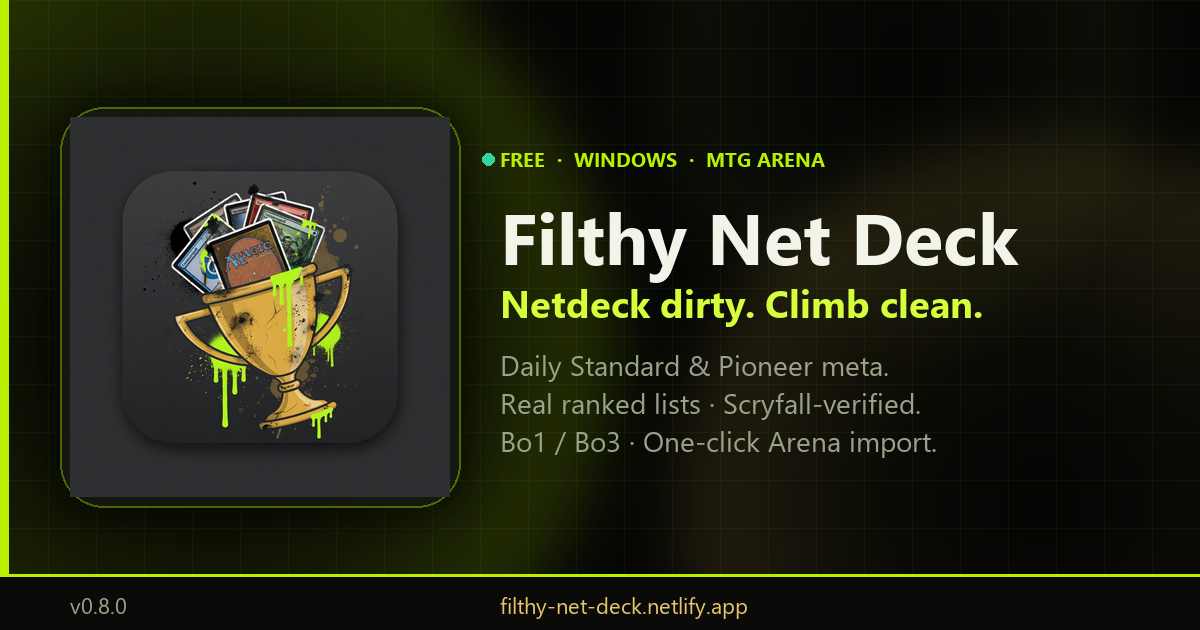
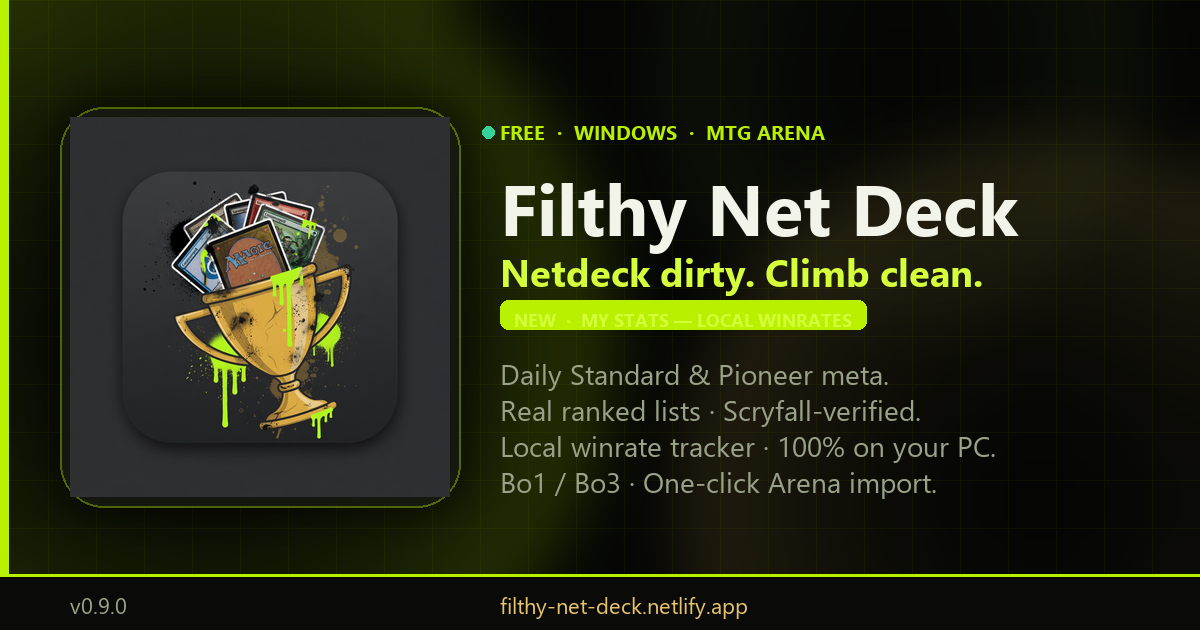
Update OG image and share metadata for My Stats.
Regenerate the social card for v0.9 with a My Stats callout and local winrate copy, refresh Open Graph / Twitter titles and descriptions, and cache-bust the image URL so previews refetch.

Changed region(s): [[0.4008, 0.181, 0.8633, 0.5429], [0.4008, 0.573, 0.8325, 0.7238], [0.4008, 0.754, 0.8017, 0.7841]]

diff --git a/website/index.html b/website/index.html
@@ -3,10 +3,10 @@
   <head>
     <meta charset="UTF-8" />
     <meta name="viewport" content="width=device-width, initial-scale=1.0" />
-    <title>Filthy Net Deck — Standard &amp; Pioneer Meta Companion</title>
+    <title>Filthy Net Deck — Daily Meta + Local Winrate Tracker</title>
     <meta
       name="description"
-      content="Free Windows meta companion for MTG Arena. Daily Standard and Pioneer ranked lists — real and Scryfall-verified. Local winrate tracker (My Stats), Bo1/Bo3, card art, one-click Arena import. Netdeck dirty. Climb clean."
+      content="Free Windows MTG Arena companion. NEW My Stats: local winrate tracker for your matches (deck, opponents, play/draw, rank) — nothing leaves your PC. Daily Standard &amp; Pioneer ranked lists, Scryfall-verified, one-click Arena import."
     />
     <meta name="theme-color" content="#070806" />
     <meta name="color-scheme" content="dark" />
@@ -19,33 +19,33 @@
     <meta property="og:locale" content="en_US" />
     <meta property="og:type" content="website" />
     <meta property="og:url" content="https://filthy-net-deck.netlify.app/" />
-    <meta property="og:title" content="Filthy Net Deck — Netdeck dirty. Climb clean." />
+    <meta property="og:title" content="Filthy Net Deck — Daily meta + local winrate tracker" />
     <meta
       property="og:description"
-      content="Free Windows app for MTG Arena: daily Standard &amp; Pioneer meta, real Scryfall-verified lists, local winrate tracking, Bo1/Bo3 rankings, one-click Arena import. Zero placeholder decks."
+      content="NEW: My Stats tracks every MTG Arena match on your PC — win rate by deck, opponents, play/draw, rank. Plus daily Standard &amp; Pioneer meta, Scryfall-verified lists, and one-click Arena import. Free Windows app."
     />
-    <meta property="og:image" content="https://filthy-net-deck.netlify.app/assets/og-image.png" />
-    <meta property="og:image:secure_url" content="https://filthy-net-deck.netlify.app/assets/og-image.png" />
+    <meta property="og:image" content="https://filthy-net-deck.netlify.app/assets/og-image.png?v=0.9.0" />
+    <meta property="og:image:secure_url" content="https://filthy-net-deck.netlify.app/assets/og-image.png?v=0.9.0" />
     <meta property="og:image:type" content="image/png" />
     <meta property="og:image:width" content="1200" />
     <meta property="og:image:height" content="630" />
     <meta
       property="og:image:alt"
-      content="Filthy Net Deck — free MTG Arena meta companion for Standard and Pioneer"
+      content="Filthy Net Deck v0.9 — daily Standard & Pioneer meta plus My Stats local winrate tracker"
     />
 
     <!-- X / Twitter Card -->
     <meta name="twitter:card" content="summary_large_image" />
     <meta name="twitter:url" content="https://filthy-net-deck.netlify.app/" />
-    <meta name="twitter:title" content="Filthy Net Deck — Netdeck dirty. Climb clean." />
+    <meta name="twitter:title" content="Filthy Net Deck — Daily meta + local winrate tracker" />
     <meta
       name="twitter:description"
-      content="Free Windows app for MTG Arena: daily Standard &amp; Pioneer meta, real Scryfall-verified lists, local winrate tracking, Bo1/Bo3 rankings, one-click Arena import."
+      content="NEW: My Stats tracks every MTG Arena match on your PC — win rate by deck, opponents, play/draw, rank. Plus daily Standard &amp; Pioneer meta and one-click Arena import."
     />
-    <meta name="twitter:image" content="https://filthy-net-deck.netlify.app/assets/og-image.png" />
+    <meta name="twitter:image" content="https://filthy-net-deck.netlify.app/assets/og-image.png?v=0.9.0" />
     <meta
       name="twitter:image:alt"
-      content="Filthy Net Deck — free MTG Arena meta companion for Standard and Pioneer"
+      content="Filthy Net Deck v0.9 — daily Standard & Pioneer meta plus My Stats local winrate tracker"
     />
 
     <link rel="icon" type="image/png" href="/assets/favicon.png" />

diff --git a/website/assets/_gen_og.py b/website/assets/_gen_og.py
@@ -1,4 +1,4 @@
-"""Generate og-image.png for social previews (1200x630)."""
+"""Generate og-image.png for social previews (1200x630)."""
 from __future__ import annotations
 
 import os
@@ -49,7 +49,7 @@ def soft_orb(
 def main() -> None:
     img = Image.new("RGBA", (W, H), (*INK_950, 255))
 
-    # Atmosphere — keep glows away from title area
+    # Atmosphere - keep glows away from title area
     img = Image.alpha_composite(img, soft_orb((W, H), 210, 340, 420, ACID, 55))
     img = Image.alpha_composite(img, soft_orb((W, H), 1040, 500, 380, (212, 168, 75), 45))
     img = Image.alpha_composite(img, soft_orb((W, H), 900, 80, 260, (92, 107, 42), 35))
@@ -110,36 +110,53 @@ def main() -> None:
     body_font = load_font(regular, 28)
     chip_font = load_font(bold, 20)
     small_font = load_font(regular, 22)
+    badge_font = load_font(bold, 18)
 
-    tx, ty = 500, 145
+    tx, ty = 500, 118
+    mid = "\u00b7"  # middle dot
 
-    # Eyebrow as plain acid text (no pill — more reliable across PIL versions)
-    draw.text((tx, ty), "FREE  ·  WINDOWS  ·  MTG ARENA", font=chip_font, fill=ACID)
+    # Eyebrow as plain acid text (no pill - more reliable across PIL versions)
+    draw.text((tx, ty), f"FREE  {mid}  WINDOWS  {mid}  MTG ARENA", font=chip_font, fill=ACID)
 
     # Live dot
     draw.ellipse([tx - 18, ty + 8, tx - 6, ty + 20], fill=(52, 211, 153, 255))
 
-    draw.text((tx, ty + 42), "Filthy Net Deck", font=title_font, fill=FOAM)
-    draw.text((tx, ty + 132), "Netdeck dirty. Climb clean.", font=tag_font, fill=ACID_BRIGHT)
+    draw.text((tx, ty + 40), "Filthy Net Deck", font=title_font, fill=FOAM)
+    draw.text((tx, ty + 128), "Netdeck dirty. Climb clean.", font=tag_font, fill=ACID_BRIGHT)
+
+    # Feature callout badge for My Stats
+    badge_text = f"NEW  {mid}  MY STATS \u2014 LOCAL WINRATES"
+    badge_pad_x, badge_pad_y = 14, 8
+    bb = draw.textbbox((0, 0), badge_text, font=badge_font)
+    bw, bh = bb[2] - bb[0], bb[3] - bb[1]
+    bx, by = tx, ty + 182
+    draw.rounded_rectangle(
+        [bx, by, bx + bw + badge_pad_x * 2, by + bh + badge_pad_y * 2],
+        radius=8,
+        fill=(184, 240, 0, 28),
+        outline=(*ACID, 160),
+        width=1,
+    )
+    draw.text((bx + badge_pad_x, by + badge_pad_y - 1), badge_text, font=badge_font, fill=ACID_BRIGHT)
 
     lines = [
         "Daily Standard & Pioneer meta.",
-        "Real ranked lists · Scryfall-verified.",
-        "Bo1 / Bo3 · One-click Arena import.",
+        f"Real ranked lists {mid} Scryfall-verified.",
+        f"Local winrate tracker {mid} 100% on your PC.",
+        f"Bo1 / Bo3 {mid} One-click Arena import.",
     ]
-    dy = ty + 200
+    dy = ty + 236
     for line in lines:
         draw.text((tx, dy), line, font=body_font, fill=MUTED)
-        dy += 38
+        dy += 36
 
     # Bottom bar
     draw.rectangle([0, H - 56, W, H], fill=(10, 11, 8, 245))
     draw.rectangle([0, H - 56, W, H - 54], fill=(*ACID, 200))
-    draw.text((70, H - 40), "v0.8.0", font=small_font, fill=MUTED)
+    draw.text((70, H - 40), "v0.9.0", font=small_font, fill=MUTED)
     draw.text((tx, H - 40), "filthy-net-deck.netlify.app", font=small_font, fill=GOLD_LIGHT)
 
     final = img.convert("RGB")
-    # JPEG is also fine for social, but PNG preserves acid greens; keep under ~1MB
     final.save(OUT, "PNG", optimize=True)
     print(f"wrote {OUT} {final.size} {OUT.stat().st_size} bytes")
 